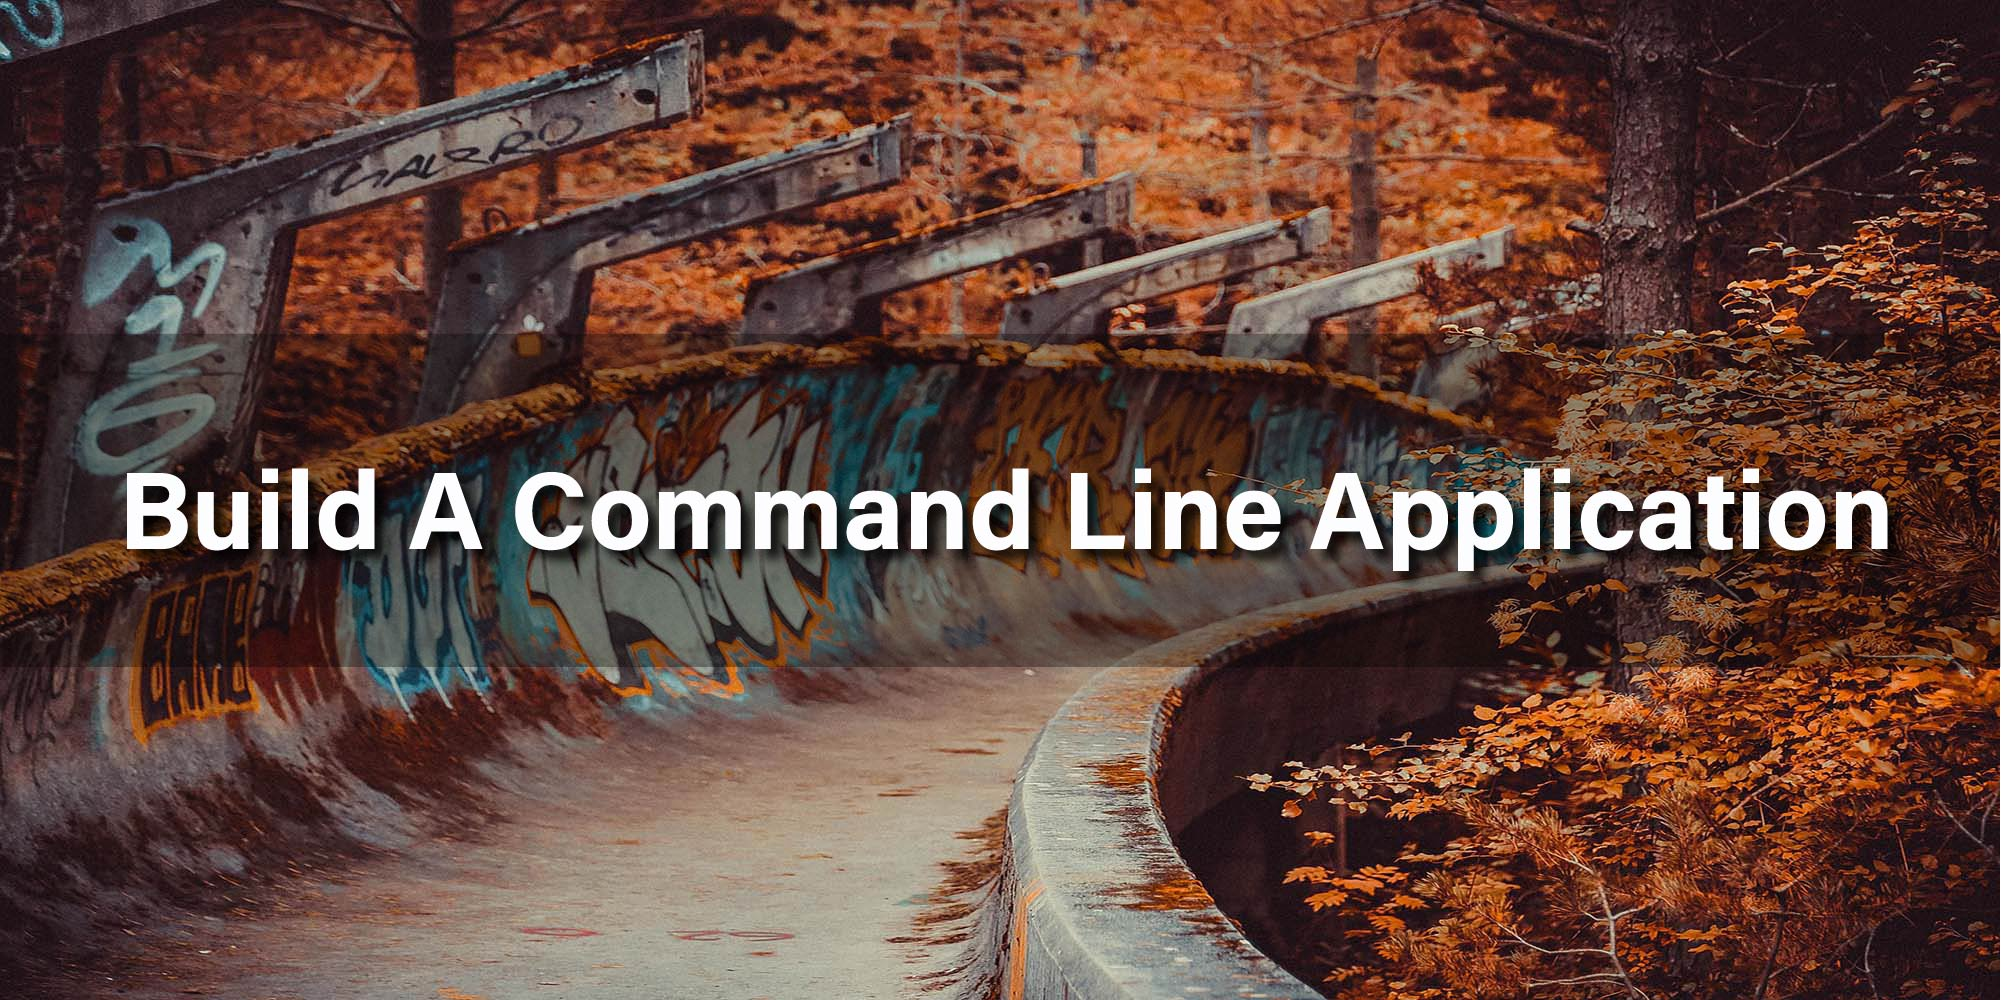
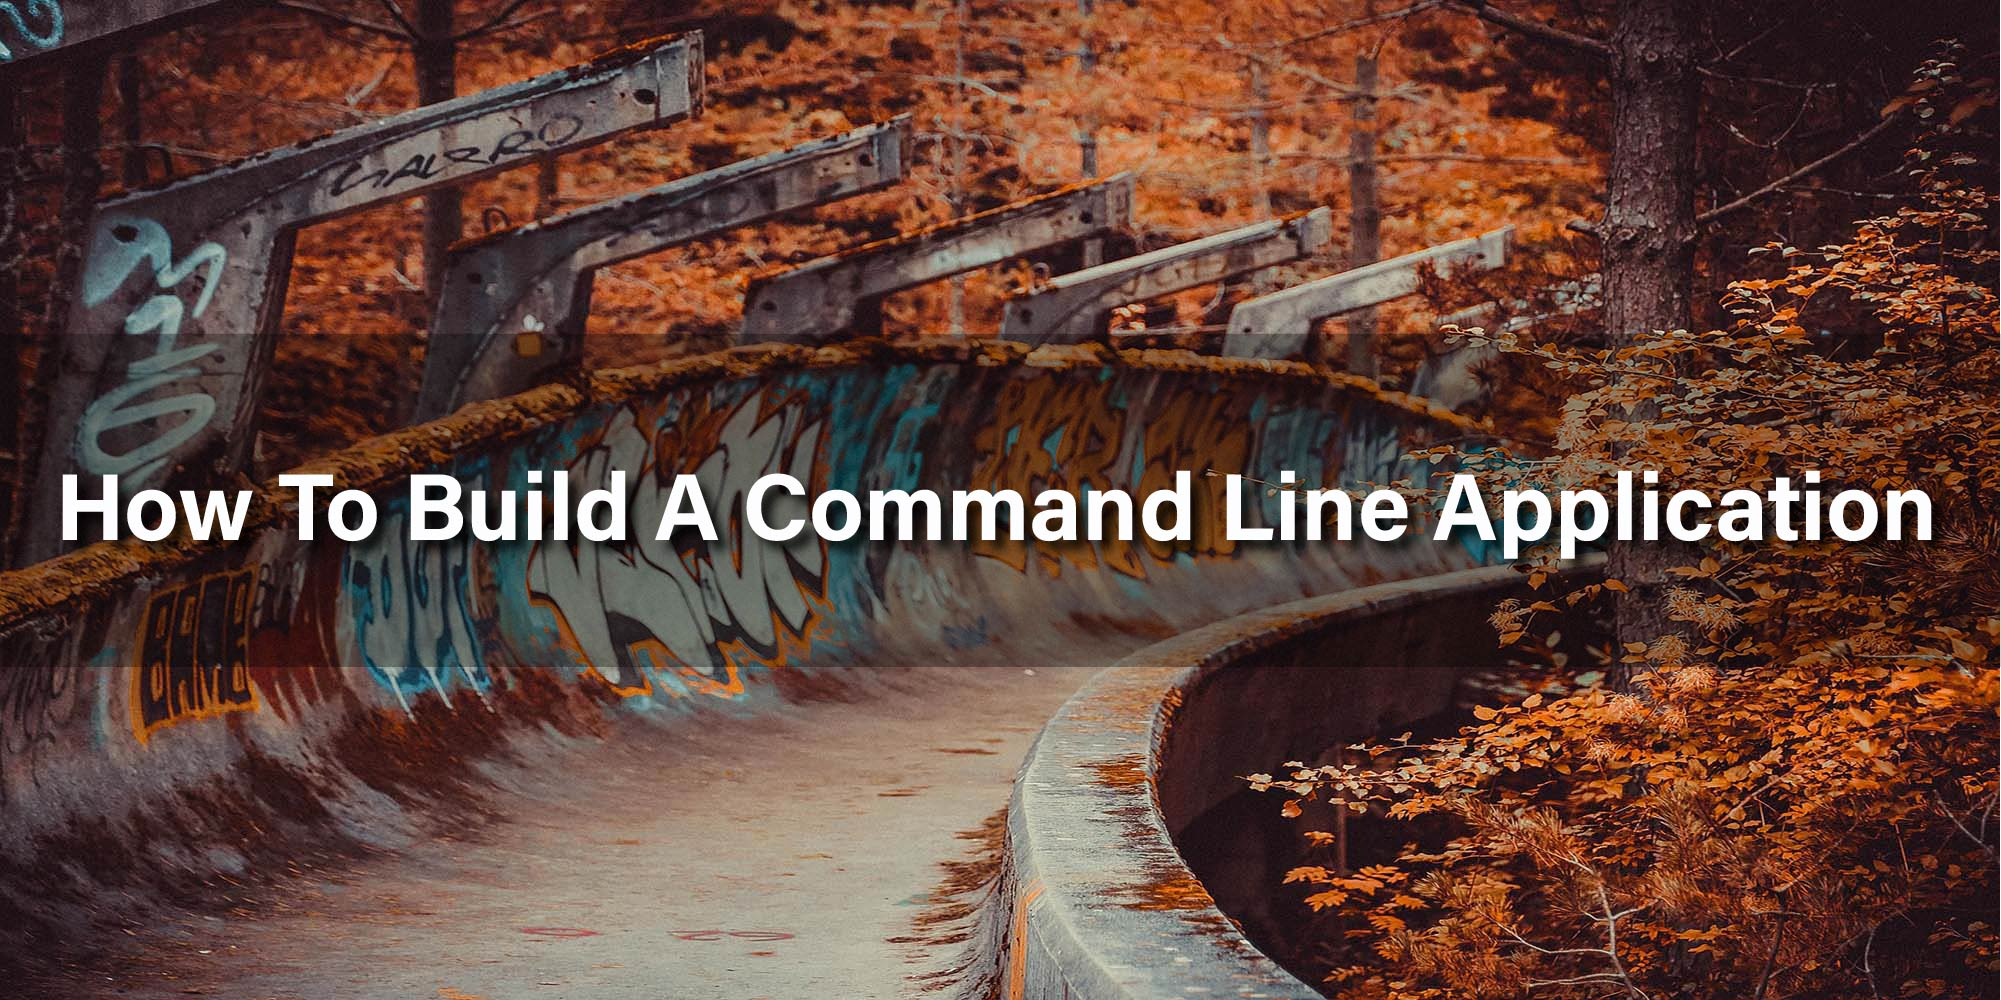
Add og tags, add how to build cli post

Changed region(s): [[0.031, 0.465, 0.9915, 0.589]]

diff --git a/pages/posts/[slug].js b/pages/posts/[slug].js
@@ -13,14 +13,14 @@ import { getPostBySlug, getAllPosts } from '../../lib/api'
 import generateSchema from '../../lib/generate-schema'
 import { SITE } from '../../lib/constants'
 
-export default function Post({ post, morePosts, preview }) {
+export default function Post({ post, morePosts }) {
   const router = useRouter()
   if (!router.isFallback && !post.slug) {
     return <ErrorPage statusCode={404} />
   }
 
   return (
-    <Layout preview={preview}>
+    <Layout>
       <Container>
         <Header />
         {router.isFallback ? (
@@ -29,34 +29,33 @@ export default function Post({ post, morePosts, preview }) {
           <>
             <article className='mb-32'>
               <Head>
-                <title>
+                <title key='title'>
                   {post.title} | {SITE.name}
                 </title>
-                <meta
-                  key={post.slug}
-                  property='description'
-                  content={post.excerpt}
-                />
-
-                <meta key={post.slug} property='og:type' content='article' />
-                <meta
-                  key={post.slug}
-                  property='og:description'
-                  content={post.excerpt}
-                />
-
-                <meta
-                  key={post.slug}
-                  property='og:image'
-                  content={post.coverImage}
-                />
+                <meta property='description' content={post.excerpt} />
+                <meta key='type' property='og:type' content='article' />
+                <meta property='og:title' content={post.title} />
+                <meta property='og:description' content={post.excerpt} />
+                <meta property='og:image' content={post.coverImage} />
+                <meta property='og:image:type' content='image/jpeg' />
+                <meta property='og:image:width' content='2000' />
+                <meta property='og:image:height' content='1000' />
                 <script
-                  key={post.slug}
+                  key='blog-schema'
                   type='application/ld+json'
                   dangerouslySetInnerHTML={{
                     __html: JSON.stringify(generateSchema('blog', post))
                   }}
                 />
+                {post.video && (
+                  <script
+                    key='video-schema'
+                    type='application/ld+json'
+                    dangerouslySetInnerHTML={{
+                      __html: JSON.stringify(generateSchema('video', post))
+                    }}
+                  />
+                )}
               </Head>
               <PostHeader
                 title={post.title}
@@ -80,8 +79,10 @@ export async function getStaticProps({ params }) {
     'date',
     'slug',
     'author',
+    'excerpt',
     'content',
-    'coverImage'
+    'coverImage',
+    'video'
   ])
 
   return {

diff --git a/components/meta.js b/components/meta.js
@@ -1,10 +1,16 @@
 import Head from 'next/head'
+import { useRouter } from 'next/router'
 
 import generateSchema from '../lib/generate-schema'
+import generateMeta from '../lib/generate-meta'
+import { SITE } from '../lib/constants'
 
 export default function Meta() {
+  const router = useRouter()
+
   return (
     <Head>
+      {/* Platform Icons */}
       <link
         rel='apple-touch-icon'
         sizes='180x180'
@@ -33,6 +39,33 @@ export default function Meta() {
       <meta name='msapplication-config' content='/favicon/browserconfig.xml' />
       <meta name='theme-color' content='#000' />
       <link rel='alternate' type='application/rss+xml' href='/feed.xml' />
+
+      {/* Basic Tags */}
+
+      {!router.pathname.includes('[slug]') && (
+        <>
+          <title>{generateMeta(router.asPath, 'title')}</title>
+          <meta
+            property='description'
+            content={generateMeta(router.asPath, 'description')}
+          />
+          <meta
+            property='og:title'
+            content={generateMeta(router.asPath, 'title')}
+          />
+          <meta
+            property='og:description'
+            content={generateMeta(router.asPath, 'description')}
+          />
+        </>
+      )}
+
+      {/* Base Social Media Tags */}
+      <meta key='type' property='og:type' content='website' />
+      <meta property='og:url' content={`${SITE.url}${router.asPath}`} />
+      <meta property='fb:add_id' content='2680429748913061' />
+
+      {/* Base JSON schemas */}
       <script
         type='application/ld+json'
         dangerouslySetInnerHTML={{

diff --git a/lib/generate-schema.js b/lib/generate-schema.js
@@ -7,7 +7,7 @@ export default function generateSchema(type, data) {
       '@type': 'WebSite',
       name: SITE.name,
       url: SITE.url,
-      sameAs: ['']
+      sameAs: ['https://www.facebook.com/bvgsoftware']
     }
   } else if (type === 'organization') {
     return {
@@ -38,9 +38,9 @@ export default function generateSchema(type, data) {
         telephone: '[+518-791-4620]',
         email: 'sales@bvgsoftware.com'
       },
-      sameAs: ['']
+      sameAs: ['https://www.facebook.com/bvgsoftware']
     }
-  } else if (type === 'post') {
+  } else if (type === 'blog') {
     const postUrl = `${SITE.url}/posts/${data.slug}`
 
     return {
@@ -50,7 +50,7 @@ export default function generateSchema(type, data) {
         '@type': 'WebPage',
         '@id': postUrl
       },
-      image: post.coverImage,
+      image: data.coverImage,
       url: postUrl,
       headline: data.title,
       datePublished: data.date,
@@ -71,6 +71,19 @@ export default function generateSchema(type, data) {
           height: '458'
         }
       }
+    }
+  } else if (type === 'video') {
+    const { description, duration, contentUrl } = data.video
+    return {
+      '@context': 'https://schema.org',
+      '@type': 'VideoObject',
+      name: data.title,
+      description,
+      thumbnailUrl:
+        'https://i9.ytimg.com/vi/T9h33vBqSKs/mq1.jpg?sqp=CNCDxvEF&rs=AOn4CLBmW8FAGj91H_xKOLTb8-1EGL-ZMA',
+      uploadDate: data.date,
+      duration,
+      contentUrl
     }
   }
 }

diff --git a/components/post-header.js b/components/post-header.js
@@ -7,17 +7,17 @@ export default function PostHeader({ title, coverImage, date, author }) {
   return (
     <>
       <PostTitle>{title}</PostTitle>
-      <div className="hidden md:block md:mb-12">
+      <div className='hidden md:block md:mb-12'>
         <Avatar name={author.name} picture={author.picture} />
       </div>
-      <div className="mb-8 md:mb-16 -mx-5 sm:mx-0">
+      <div className='mb-8 md:mb-16 -mx-5 sm:mx-0'>
         <CoverImage title={title} src={coverImage} />
       </div>
-      <div className="max-w-2xl mx-auto">
-        <div className="block md:hidden mb-6">
+      <div className='max-w-2xl mx-auto'>
+        <div className='block md:hidden mb-6'>
           <Avatar name={author.name} picture={author.picture} />
         </div>
-        <div className="mb-6 text-lg">
+        <div className='mb-6 text-lg'>
           <DateFormater dateString={date} />
         </div>
       </div>

diff --git a/pages/index.js b/pages/index.js
@@ -1,5 +1,3 @@
-import Head from 'next/head'
-
 import Container from '../components/container'
 import MoreStories from '../components/more-stories'
 import Layout from '../components/layout'
@@ -8,7 +6,6 @@ import FrontServices from '../components/front-services'
 import Klaviyo from '../components/klaviyo'
 
 import { getAllPosts } from '../lib/api'
-import { SITE } from '../lib/constants'
 
 export default function Index({ allPosts }) {
   const recentPosts = allPosts.slice(0, 4)
@@ -16,9 +13,6 @@ export default function Index({ allPosts }) {
   return (
     <>
       <Layout>
-        <Head>
-          <title>{SITE.name} | Insert Slogan Here</title>
-        </Head>
         <FrontVideo />
         <FrontServices />
         <Klaviyo version='embed' />

diff --git a/pages/posts/index.js b/pages/posts/index.js
@@ -1,5 +1,3 @@
-import Head from 'next/head'
-
 import Layout from '../../components/layout'
 import Container from '../../components/container'
 import MoreStories from '../../components/more-stories'
@@ -7,7 +5,6 @@ import HeroPost from '../../components/hero-post'
 import Intro from '../../components/intro'
 
 import { getAllPosts } from '../../lib/api'
-import { SITE } from '../../lib/constants'
 
 export default function Index({ allPosts }) {
   const heroPost = allPosts[0]
@@ -16,9 +13,6 @@ export default function Index({ allPosts }) {
   return (
     <>
       <Layout>
-        <Head>
-          <title>Web Developer Blog | {SITE.name}</title>
-        </Head>
         <Container>
           <Intro />
           {heroPost && (

diff --git a/lib/constants.js b/lib/constants.js
@@ -8,8 +8,18 @@ export const SITE = {
   author: 'Benjamin Brooke'
 }
 
+export const PAGES = {
+  '/': { title: `${SITE.name} | Modern Business Solutions`, description: '' },
+  '/services': {
+    title: `Web & Mobile Development | ${SITE.name}`,
+    description: ''
+  },
+  '/posts': { title: `Learn To Code Blog | ${SITE.name}`, description: '' },
+  '/contact': { title: `Free Consultation | ${SITE.name}`, description: '' }
+}
+
 export const SOCIAL_MEDIA = [
-  { url: '', name: '', icon: '' },
+  { url: 'https://www.facebook.com/bvgsoftware', name: 'Facebook', icon: '' },
   { url: '', name: '', icon: '' },
   { url: '', name: '', icon: '' }
 ]

diff --git a/pages/services.js b/pages/services.js
@@ -1,16 +1,10 @@
-import Head from 'next/head'
-
 import Container from '../components/container'
 import Layout from '../components/layout'
-import { SITE } from '../lib/constants'
 
 export default function Development() {
   return (
     <>
       <Layout>
-        <Head>
-          <title>Technology Services | {SITE.name}</title>
-        </Head>
         <Container>
           <h1 className='mt-32'>Under Construction</h1>
         </Container>

diff --git a/pages/contact.js b/pages/contact.js
@@ -1,16 +1,10 @@
-import Head from 'next/head'
-
 import Container from '../components/container'
 import Layout from '../components/layout'
-import { SITE } from '../lib/constants'
 
 export default function Contact() {
   return (
     <>
       <Layout>
-        <Head>
-          <title>Contact Us Today | {SITE.name}</title>
-        </Head>
         <Container>
           <h1 className='mt-32'>Under Construction</h1>
         </Container>

diff --git a/components/markdown/index.js b/components/markdown/index.js
@@ -11,7 +11,7 @@ export function Li({ children, ...rest }) {
 
 export function Span({ children, ...rest }) {
   if (children[0] === '// highlight-line') {
-    return <span className='highlight' />
+    return <span {...rest} className='highlight' />
   } else {
     return <span {...rest}>{children}</span>
   }

diff --git a/components/intro.js b/components/intro.js
@@ -5,7 +5,7 @@ export default function Intro() {
         Blog
       </h1>
       <h4 className='text-center md:text-left text-lg mt-5 md:pl-8'>
-        Passing on my knowledge and experience with Next + Markdown.
+        Learn to code. No, it is not too late.
       </h4>
     </section>
   )

diff --git a/lib/generate-meta.js b/lib/generate-meta.js
@@ -1,0 +1,5 @@
+import { PAGES } from './constants'
+
+export default function generateMeta(asPath, property) {
+  return PAGES[asPath][property]
+}
